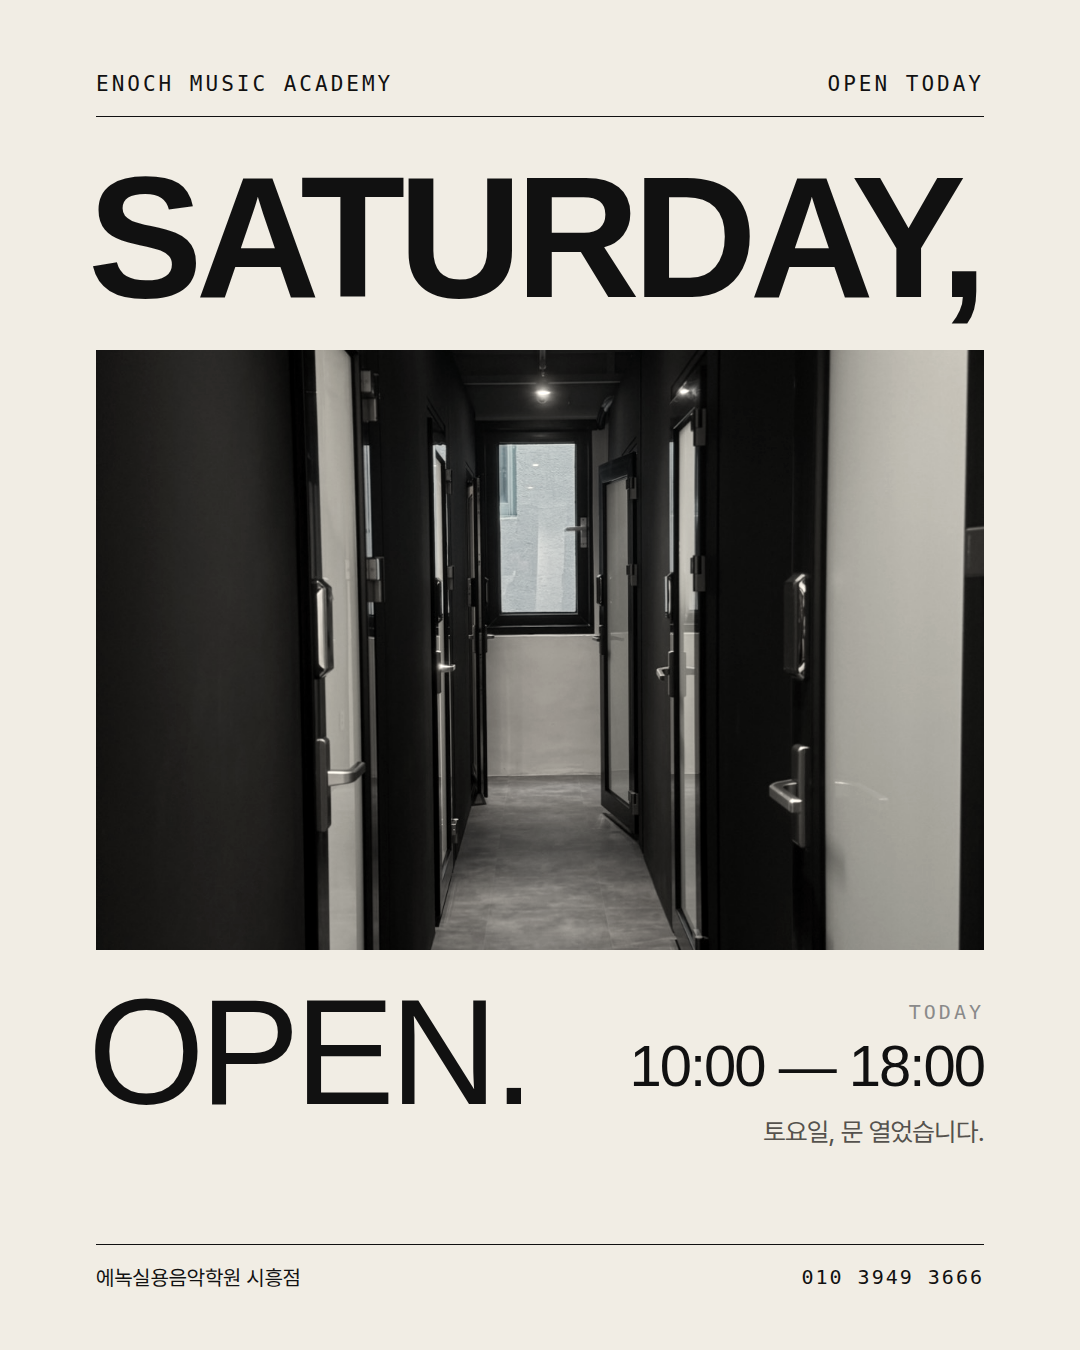
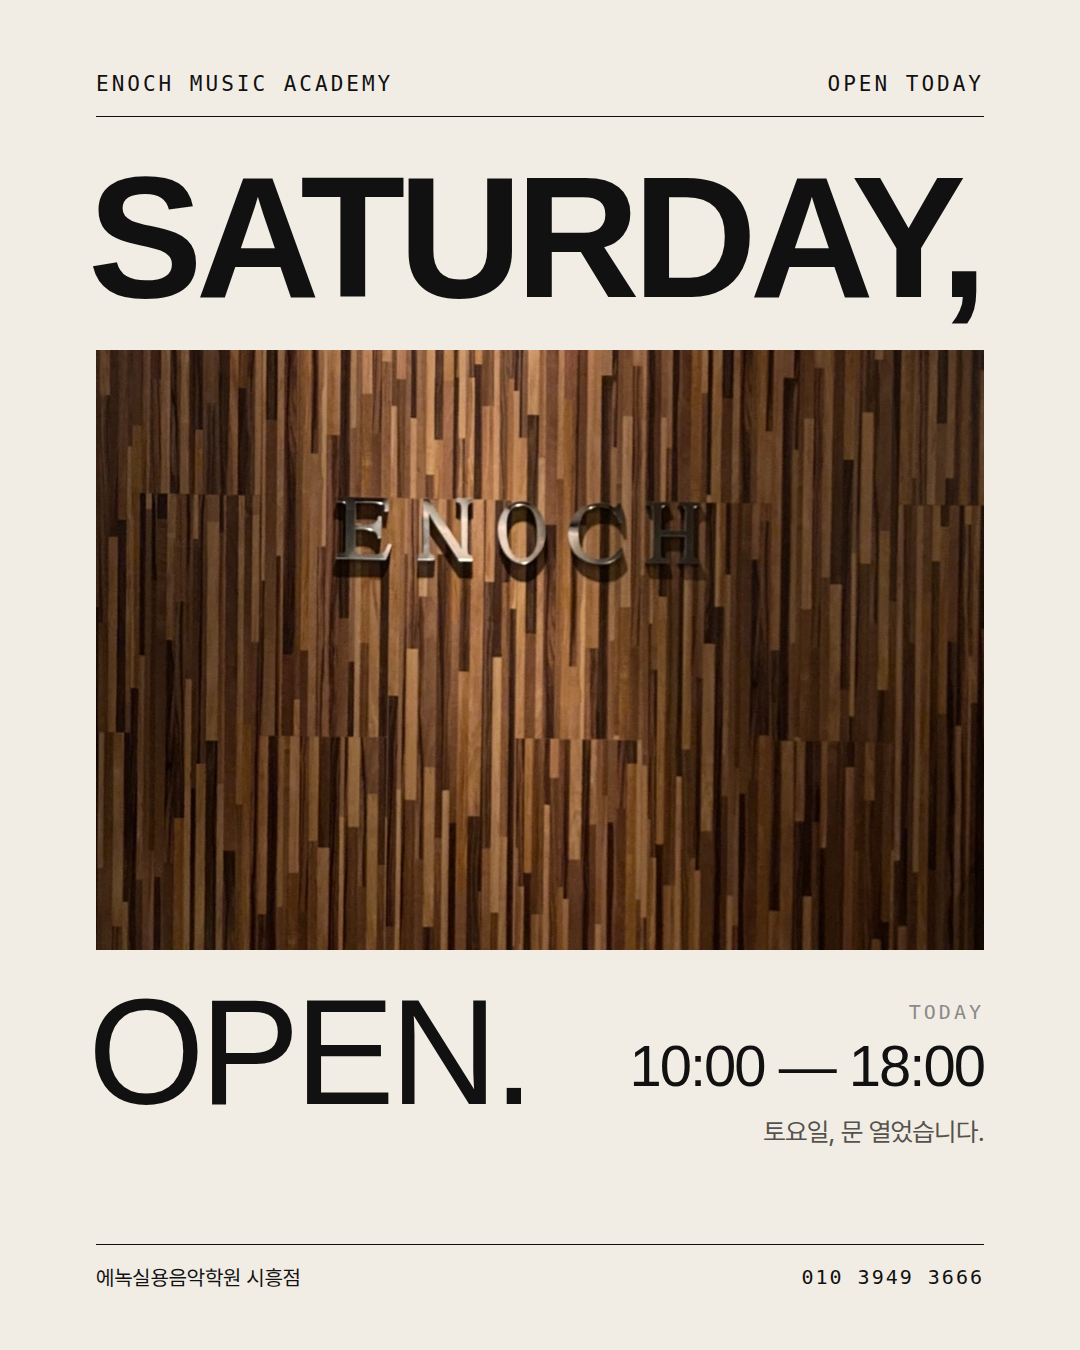
토요일 오픈: 사진을 ENOCH 로고월로 교체
Claude-Session: https://claude.ai/code/session_01HGbZvgMeYrbU7mY8bwfjyb

diff --git a/output/오픈_토요일/open.html b/output/오픈_토요일/open.html
@@ -11,14 +11,14 @@
 .a{position:absolute}
 .k{font-family:var(--mono);font-size:20px;letter-spacing:3px;color:var(--g);text-transform:uppercase}
 .big{font-family:var(--en);font-weight:700;letter-spacing:-7px;line-height:.9}
-.ph{background:#111 url(../../images/공간/복도_01.jpg) no-repeat;background-size:cover;filter:grayscale(.85) sepia(.12) contrast(1.04)}
+.ph{background:#111 url(../../images/공간/로고월_01.jpg) no-repeat;background-size:cover;filter:saturate(.85) contrast(1.03)}
 .tm{font-family:var(--en);font-weight:300;letter-spacing:-2px}
 .p{font-size:30px;line-height:1.7;color:var(--b);letter-spacing:-.6px}
 </style></head><body>
 <section class="s" id="feed" style="width:1080px;height:1350px">
 <div class="hd" style="top:72px"><span>ENOCH MUSIC ACADEMY</span><span>OPEN TODAY</span></div>
 <div class="big a" style="left:88px;top:160px;font-size:172px">SATURDAY,</div>
-<div class="ph a" style="left:96px;right:96px;top:350px;height:600px;background-position:50% 50%"></div>
+<div class="ph a" style="left:96px;right:96px;top:350px;height:600px;background-position:50% 22%"></div>
 <div class="big a" style="left:88px;top:985px;font-size:150px;font-weight:300;letter-spacing:-5px">OPEN.</div>
 <div class="a" style="right:96px;top:1000px;text-align:right"><div class="k">Today</div><div class="tm" style="font-size:58px;margin-top:8px">10:00 — 18:00</div></div>
 <div class="p a" style="right:96px;top:1110px;text-align:right;font-size:26px">토요일, 문 열었습니다.</div>
@@ -27,7 +27,7 @@
 <section class="s" id="story" style="width:1080px;height:1920px">
 <div class="hd" style="top:230px"><span>ENOCH MUSIC ACADEMY</span><span>OPEN TODAY</span></div>
 <div class="big a" style="left:88px;top:320px;font-size:172px">SATURDAY,</div>
-<div class="ph a" style="left:96px;right:96px;top:520px;height:860px;background-position:50% 50%"></div>
+<div class="ph a" style="left:96px;right:96px;top:520px;height:860px;background-position:50% 70%"></div>
 <div class="big a" style="left:88px;top:1420px;font-size:150px;font-weight:300;letter-spacing:-5px">OPEN.</div>
 <div class="a" style="right:96px;top:1435px;text-align:right"><div class="k">Today</div><div class="tm" style="font-size:58px;margin-top:8px">10:00 — 18:00</div></div>
 <div class="p a" style="right:96px;top:1545px;text-align:right;font-size:26px">토요일, 문 열었습니다.</div>
